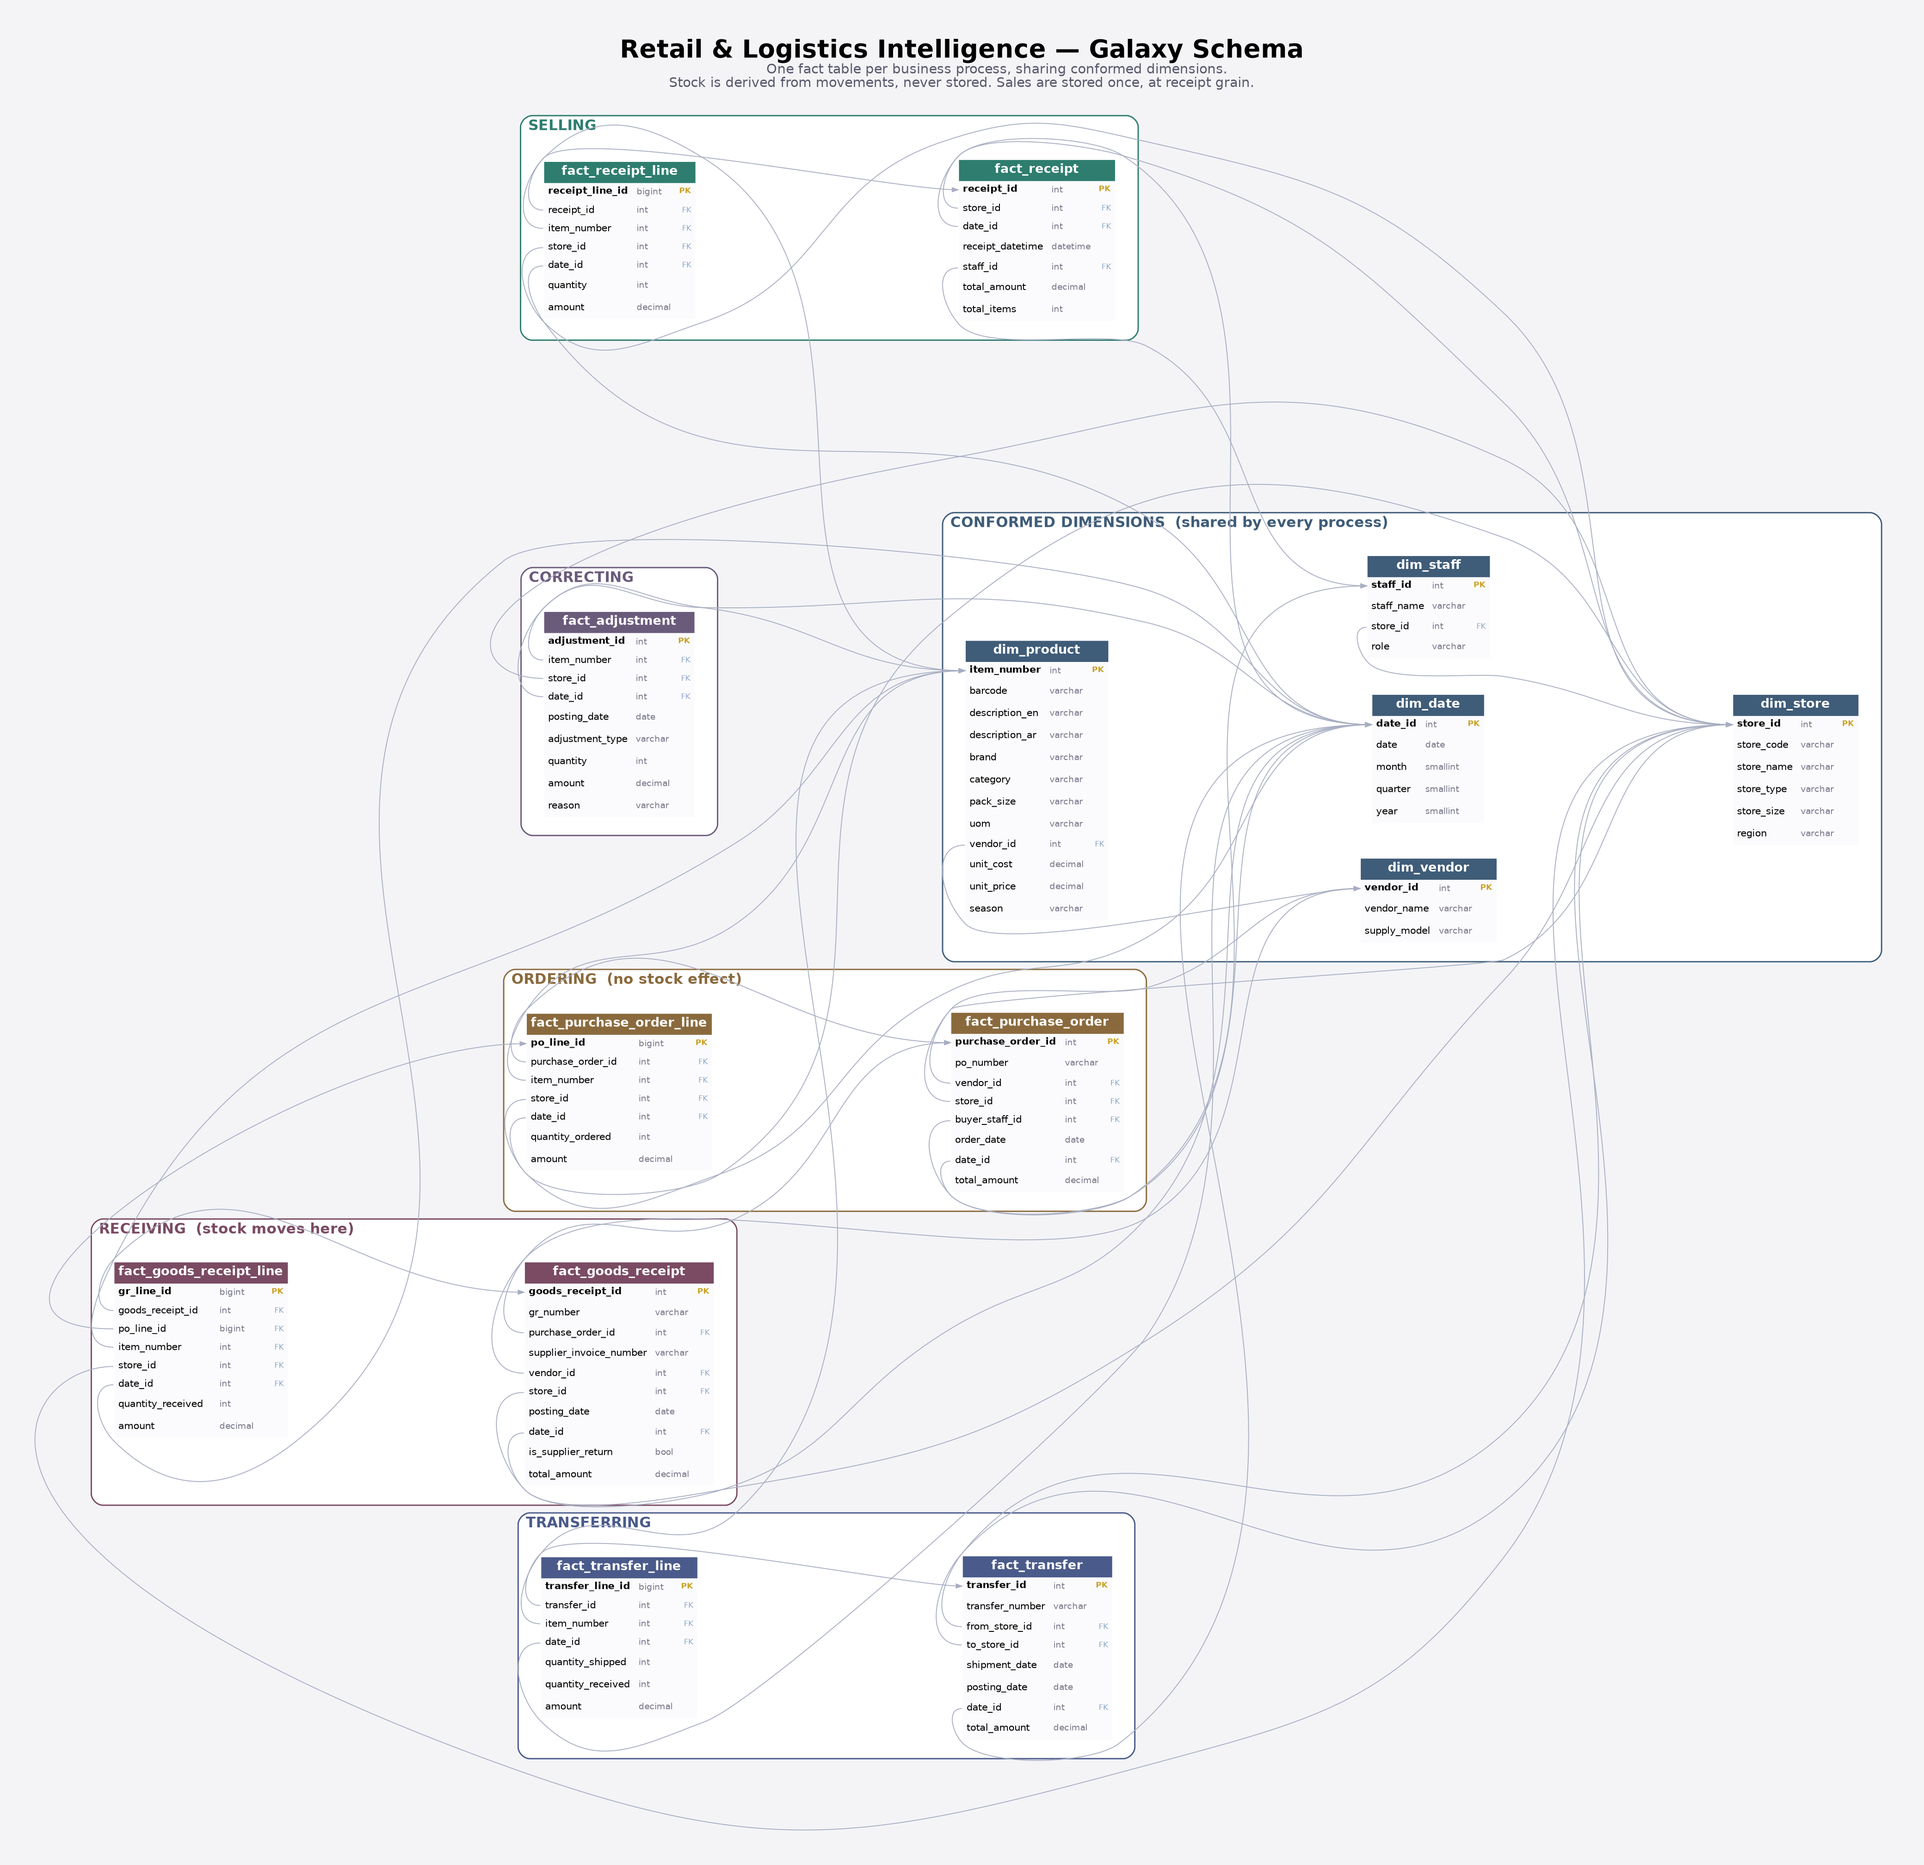
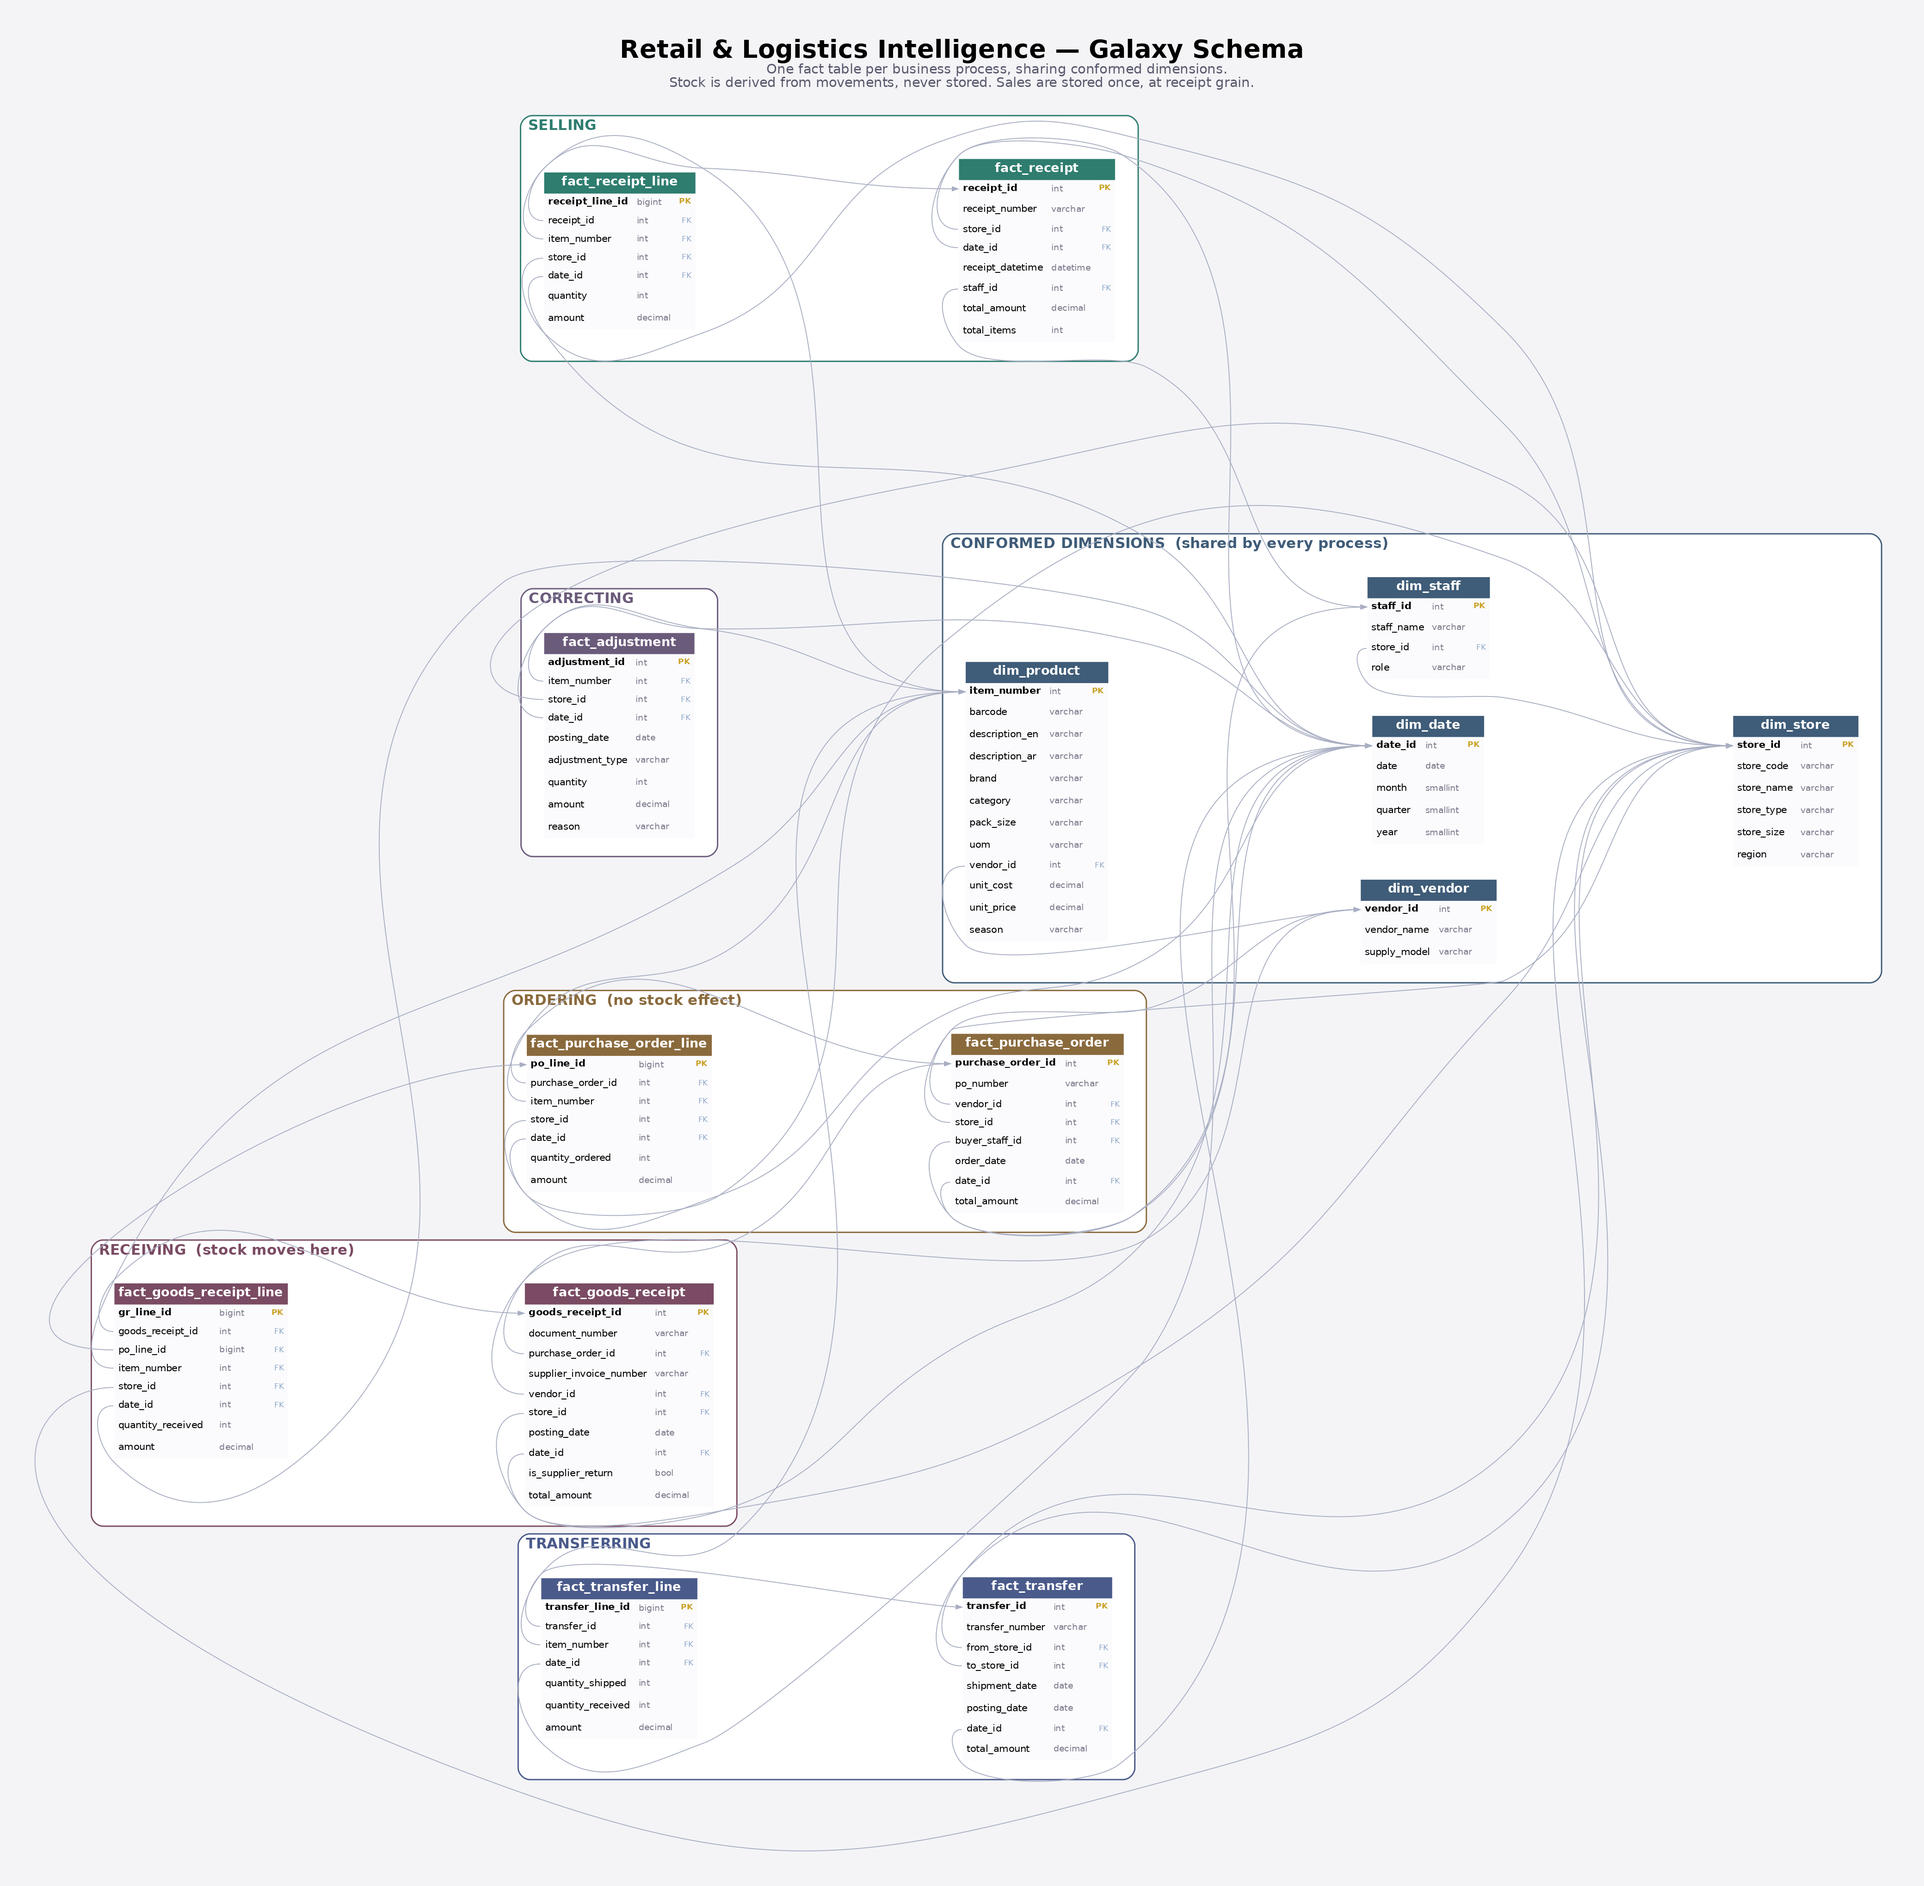
Fix diagram script: connect as current user, skip psqlrc, use relative paths

diff --git a/scripts/make_diagram.py b/scripts/make_diagram.py
@@ -6,8 +6,7 @@ import subprocess, textwrap, html
 DB = "retail_intelligence"
 
 def q(sql):
-    out = subprocess.run(["su","postgres","-c",
-            f'psql -d {DB} -At -F"|" -c "{sql}"'],
+    out = subprocess.run(["psql","-X","-d",DB,"-At","-F","|","-c",sql],
             capture_output=True, text=True)
     return [l.split("|") for l in out.stdout.strip().splitlines() if l]
 
@@ -113,10 +112,10 @@ dot = f"""digraph schema {{
 {chr(10).join(f'  {s_}:{sc} -> {tt}:{tc};' for s_,sc,tt,tc in fks_raw)}
 }}
 """
-open("/home/claude/schema.dot","w").write(dot)
+open("docs/schema.dot","w").write(dot)
 for fmt in ("png","svg"):
-    r=subprocess.run(["dot",f"-T{fmt}","-Gdpi=150","/home/claude/schema.dot",
-                      "-o",f"/home/claude/schema_diagram.{fmt}"],capture_output=True,text=True)
+    r=subprocess.run(["dot",f"-T{fmt}","-Gdpi=150","docs/schema.dot",
+                      "-o",f"docs/schema_diagram.{fmt}"],capture_output=True,text=True)
     print(fmt, "OK" if r.returncode==0 else r.stderr[:300])
 print(f"tables={len(by_table)} foreign_keys={len(fks_raw)}")
 
@@ -177,5 +176,5 @@ for g in ["conformed_dimensions","selling","ordering_no_stock_effect",
     for t in sorted(groups.get(g,[])): lines.append(f"  {t}")
     lines.append("}"); lines.append("")
 
-open("/home/claude/schema.dbml","w").write("\n".join(lines))
+open("docs/schema.dbml","w").write("\n".join(lines))
 print(f"schema.dbml regenerated from live DB: {len(by_table)} tables, {len(fks_raw)} refs")
